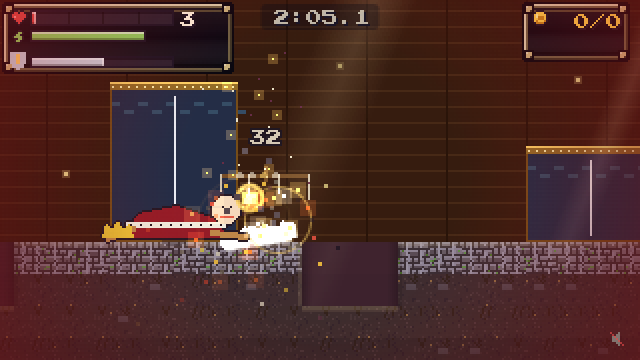
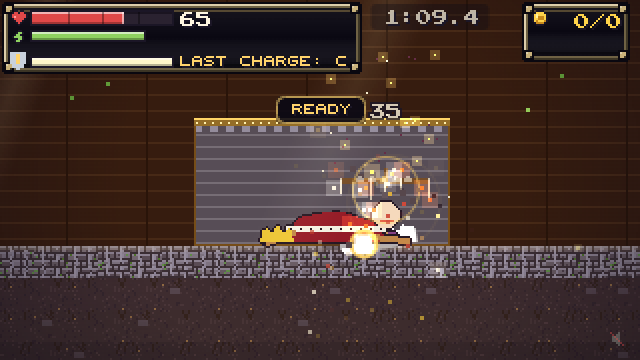
puppeteer3: the bot takes the hard way (up the batten, cut his line) so boss-navigation stands on the gallery again; retuned for it - open 3.0 s, jolt 1.2 s / 12 s, the Brute walks at 58 and hits 32/34/35; human bot 14/18 (78%), median win 113 s; new captures; PUPPETEER3 report

diff --git a/src/puppeteer.js b/src/puppeteer.js
@@ -31,8 +31,8 @@
 export const PUP = {
   hp: 720, w: 16, h: 40, markH: 50,
   ward: 0.05, openMul: 1.0, joltMul: 1.0,
-  downOpenT: 3.4,                      // BOTH PUPPETS DOWN: he is on the boards this long
-  joltT: 1.6, joltCd: 8.0,             // THE HARD WAY: his line struck from the gallery
+  downOpenT: 3.0,                      // BOTH PUPPETS DOWN: he is on the boards this long
+  joltT: 1.2, joltCd: 12.0,             // THE HARD WAY: his line struck from the gallery
   hangLow: 56,                         // one puppet down: his bar sinks this far below the gallery (still out of reach from the boards)
   descendT: 0.7, haulT: 1.2, riseT: 0.8,
   sceneT: 1.6,
@@ -41,7 +41,7 @@ export const PUP = {
   flySpeed: 170,
   harl: { hp: 40, speed: 130, jabTell: 0.36, jabNext: 0.24, jabT: 0.1, jabs: 3, jabReach: 26, jab: 10, kickTell: 0.5, kickT: 0.2, kickReach: 34, kick: 12,
     rest: 0.35, still: 0.7, dart: 2.2 },
-  brute: { hp: 110, speed: 38, chopTell: 1.0, chopReach: 40, chop: 28, slamTell: 1.15, slamReach: 70, slamTop: 12, slam: 30, grabTell: 1.0, grabReach: 30, grab: 32,
+  brute: { hp: 110, speed: 58, chopTell: 1.0, chopReach: 40, chop: 32, slamTell: 1.15, slamReach: 70, slamTop: 12, slam: 34, grabTell: 1.0, grabReach: 30, grab: 35,
     recover: 1.2, range: 44, scale: 1.5 },
   master: { hp: 150, swatTell: 0.9, swatReach: 58, swatTop: 64, swat: 24, stompTell: 1.1, stompHalf: 24, stomp: 30, reachTell: 1.0, reachT: 0.45, reachSpan: 200, reach: 22,
     recover: 1.6, speed: 34, lowerT: 1.6 },
@@ -250,7 +250,7 @@ function puppetStep(p, e, show, dt, c, ev, hero, mayStrike) {
       p.slamY = onFlat ? hf : null;
       if (opts.length) { const k = opts[(p.blows = (p.blows || 0) + 1) % opts.length]; show.turn = e.phase >= 2 ? show.turn : p;
         startTell(p, k + 'Tell', PUP.brute[k + 'Tell']); ev.push({ t: k + 'Tell', p }); c.say('!!', '#ff6b6b'); c.sound(k + 'Tell'); return; } }
-    if ((same || onFlat) && adx > PUP.brute.range - 12) { p.hopT = (p.hopT || 0) + dt; if (p.hopT % 0.5 < 0.3) { p.vx = Math.sign(dx) * PUP.brute.speed; p.x = Math.max(A.x0 + 14, Math.min(A.x1 - 14, p.x + p.vx * dt)); } }
+    if ((same || onFlat) && adx > PUP.brute.range - 12) { p.hopT = (p.hopT || 0) + dt; { p.vx = Math.sign(dx) * PUP.brute.speed; p.x = Math.max(A.x0 + 14, Math.min(A.x1 - 14, p.x + p.vx * dt)); } }
     return; }
   if (big) {
     if (mayStrike && show.gap <= 0) { const M = PUP.master;
@@ -388,7 +388,7 @@ export function buildPuppetStage({ painter, T, TS }) {
 /* ---------- THE BOT'S READING (src/lab.js): A HUMAN BOT ----------
    It sees a tell PLAN.react s after it began, misreads PLAN.missDodge of them, and goes for a string (rather than the body) PLAN.goString of the time.
    s = { P: { x, y, face, ground, atk }, e, show, reach, shield, onBatten, t, rng, mem } */
-export const PLAN = { react: 0.25, missDodge: 0.2, goString: 0.5 };
+export const PLAN = { react: 0.25, missDodge: 0.2, goString: 0.5, goLoft: 0.3 };
 export function puppetPlan(s) { const out = planOf(s), P = s.P, A = s.show.A;
   if (P.ground && P.y > A.floor + 8 && !out.down) { out.jump = true; if (out.gx == null) out.gx = P.x + (P.face || 1) * 30; }   /* in a broken-board pit, going somewhere: jump out */
   return out; }
@@ -420,6 +420,15 @@ function planOf(s) {
     if ((k === 'jab' || k === 'swat') && s.shield && (!tell || p.modeT < (k === 'jab' ? 0.2 : 0.35))) { out.block = true; out.atk = false; out.face = Math.sign(p.x - P.x) || 1; out.why = 'block the ' + k; return out; }
     if (tell && p.modeT < (k === 'jab' ? 0.25 : 0.45) && k !== 'slam' && k !== 'kick') { out.gx = clampX(p.x + (P.x < p.x ? -1 : 1) * (r + 22)); out.atk = false; out.why = 'back off the ' + k; return out; } }
   if (out.why === 'open' || out.why === 'under him') return out;
+  /* ---- 2b. THE HARD WAY, now and then (a roll per cycle): up the batten, strike the line he hangs from, and back down after the jolt ---- */
+  const wk = e.mode === 'whipLowTell' || (e.mode === 'whip' && e.whipKind === 'low') ? 'low' : e.mode === 'whipHighTell' || (e.mode === 'whip' && e.whipKind === 'high') ? 'high' : null;
+  if (wk && onGal && (e.mode === 'whip' || dodges(e))) { if (wk === 'low' && (e.mode === 'whip' || e.modeT < 0.2)) { out.jump = true; out.why = 'jump the whip'; return out; }
+    if (wk === 'high' && (e.mode === 'whip' || e.modeT < 0.3)) { out.down = true; out.why = 'duck the whip'; return out; } }
+  const goUp = show.joltCd <= 0 && ['work', 'hang1', 'whipLowTell', 'whipHighTell', 'whip'].includes(e.mode) && roll('loft|' + e.phase + '|' + show.n.drop + '|' + show.n.jolt, PLAN.goLoft);
+  if (goUp && onStage) return climb(out, P, show.batten, s);
+  if (goUp && onGal) { const l = hangLine(e, show), d = l.x0 - P.x; out.face = Math.sign(d) || 1; out.gx = Math.abs(d) > reach - 10 ? clampX(l.x0 - out.face * (reach - 12)) : null;
+    out.atk = Math.abs(d) < reach - 2; out.jump = out.atk && P.ground && l.y1 < P.y - 20; out.why = 'strike his line'; return out; }
+  if (onGal && !goUp) { out.drop = true; out.why = 'back down'; return out; }
   /* ---- 3. OFFENCE: the Brute in his recovery first (the big window), else the Harlequin when he is close, else the nearest one ---- */
   const brute = pups.find(p => p.t === 'marionette' || p.t === 'masterpiece'), harl = pups.find(p => p.t === 'harlequin');
   const recovering = brute && brute.mode === 'recover' && sees(brute);
@@ -439,6 +448,16 @@ function planOf(s) {
   /* THE HARLEQUIN PUNISHES STANDING STILL: shuffle */
   if (!out.gx && !out.atk && harl && near(harl, 50)) out.gx = clampX(P.x + (P.x < harl.x ? -14 : 14));
   return out;
+}
+
+/* the bot's way up: to the batten, strike the pin rail from it, ride it up, step off onto the gallery */
+function climb(out, P, bat, s) {
+  if (!bat) return out;
+  const onBat = s.onBatten, mid = bat.x + bat.w / 2;
+  if (bat.st === 'down' && !onBat) { out.gx = mid - 4; out.face = 1; out.why = 'to the batten'; return out; }
+  if (bat.st === 'down' && onBat) { out.gx = mid - 4; out.face = 1; out.atk = !(bat.t > 0); out.why = 'strike the pin rail'; return out; }
+  if (onBat && bat.st !== 'down') { out.gx = null; out.why = 'ride'; if (bat.st === 'up') { out.gx = bat.x + bat.w + 24; out.why = 'step off'; } return out; }
+  out.gx = mid + 40; out.why = 'wait for the batten'; return out;
 }
 
 /* ---------- THE FRAME each body shows ---------- */

diff --git a/work/claude/lane-done/claude-puppeteer.md b/work/claude/lane-done/claude-puppeteer.md
@@ -408,3 +408,194 @@ beside a grey decoy.
    punishment.
 5. **The spotlight** blinds the strings' glow. The alternative is darkening the view; the glow loss is the mechanical sting. Recommend the
    glow loss.
+
+---
+
+# PUPPETEER3 (2026-09-30, after Daniel played PUPPETEER2)
+
+Daniel: "Still really easy, and the enemies are just health sponges. How do I actually attack the boss? Cutting strings doesn't seem to do
+anything. Why not make one puppet have fast, weak attacks and the other slow and heavy, and balance the fight around that?"
+
+That was a core-loop failure, so this round rebuilds the fight around **his duo**. Readability came first, difficulty second. His own health is
+unchanged (720 base, 648 at normal). The code is still `src/puppeteer.js` (the fight, rewritten), `src/puppeteer-hands.js` (rewritten) and
+`src/redraw/puppeteer_art.js`.
+
+## The duo
+
+- **THE HARLEQUIN is fast and weak.**
+  - Short strings of **jabs**: 10 each, a 0.36 s windup, `!`. Block them or step back.
+  - A **low kick**: 12, a 0.5 s windup, `!!`. Jump it.
+  - He runs at 130 px/s, **darts round to your other side** every couple of seconds, and **jumps a hero who stands still** (0.7 s still is
+    enough).
+  - Fragile: 40 health, and **one string: one cut drops him**.
+- **THE BRUTE is slow and heavy.** He is the old soldier puppet, drawn at 1.5x.
+  - A **HEAVY CHOP** (1.0 s windup, 32), a **GROUND SLAM** (1.15 s windup, 34; a shock along the boards, jump it) and a **GRAB** (1.0 s windup, 35,
+    and it holds you). All three are `!!`: get out from under. After the game's damage scaling, two or three of them put you in trouble.
+  - He walks steadily at 58 px/s. At first he hopped at 38, and the bot simply outpaced him: two fights saw no chop and no grab at all.
+  - After every swing he stands **SPENT for 1.2 s**, shown by a green bar over him: that is the window to hit him or cut him.
+  - 110 health. **Two strings**:
+    - the **ARM** string: cut it and the chop and the grab are gone, and the arm hangs limp;
+    - the **BACK** string: cut it and the slam is gone.
+- **The fight is balanced around the pair.** The Harlequin may strike during the Brute's recovery, so punishing the Brute means handling the
+  Harlequin. **Kill order is a real choice:** a dropped Harlequin is down only 4 s, the Brute 6 s, and he comes down only when both are down at
+  once.
+- **The Acrobat is dropped**, along with the paired high/low blows, the decoys, the re-ties, the spotlight, the sandbag and the scenery. Fewer,
+  clearer threats. The scene changes stay: they only bring new flats, during his haul back up. The trapdoors now come only from the Brute's slam.
+
+## Damage is readable
+
+- **Puppets take normal damage.** A blow lands with a flash, a knock, the number and a sound, and takes their health. A health bar sits under
+  every standing puppet (green, then yellow, then red, in quarters).
+- **Strings are always drawn**, bright, with a knot at the limb, and **cut whenever a blow crosses them**. They attach 13-15 px up, where every
+  hero's blade reaches from the boards: the knight's reaches 17 and the pyromancer's staff 15. The masterpiece's high strings need a jump.
+- **A cut in the GOLD** (during a windup or a blow) also **cancels that blow** and staggers the puppet: a bonus, not the only moment a cut works.
+- **A CUT FEELS HUGE:**
+  - a double snap sound;
+  - an 80-120 ms hit-stop and a shake;
+  - the cut length whips away into the flies;
+  - the limb it held falls limp (the Brute's pose sags);
+  - the hint box says which limb and which attack is gone ("THE ARM GOES LIMP: NO MORE CHOP OR GRAB").
+- **A dropped puppet** lies in a heap with a ring counting out its down time.
+
+## How to hurt him is obvious from the first minute
+
+- He **hangs from his control bar** on a thick line from the grid.
+- **Each puppet you drop lowers his bar** by 56 px: you can see him sink, and he is still out of reach. The hint box says "ONE DOWN: HIS BAR
+  DROPS".
+- **With both down he is dragged to the boards.** You get a gold ring, a big **OPEN**, a timer bar and "HE'S DOWN - STRIKE HIM", for **3.0 s at
+  x1.0**: every blow counts in full.
+- The first thing said on waking is "DROP BOTH PUPPETS AND HE COMES DOWN". A blow on him while he hangs does x0.05, and says "OUT OF REACH: DROP
+  HIS PUPPETS FIRST".
+- **The hard way, always there:** the batten and pin rail are free from the start. From the gallery, **strike the line he hangs from** (a jump
+  reaches it; it glows while you are up there and it is ready). He is **jolted** down onto the gallery boards, open for 1.2 s, and it can't be
+  done again for 12 s.
+- **The PUPPETEER2 multipliers (x3.0 / x3.2) are gone.** The opening is x1.0 and the jolt x1.0. The fight is paced by how quickly you drop the duo,
+  and the open window's length is the lever.
+
+## The phases now change how the duo combines
+
+1. **One at a time.** They never start a windup on the same frame. The Harlequin may come in while the Brute is well into a windup or spent.
+2. **Together** ("TOGETHER NOW: HIS SLAM BREAKS THE BOARDS").
+   - Both strike freely.
+   - The Brute's **slam breaks the boards** where it lands: a trapdoor pit, three columns wide, for 4 s, told by the red crack in its windup.
+   - A hero on a flat or down in a pit is still reached: the slam shakes the boards he stands on.
+   - A hero on the gallery gets the Harlequin flown up to him, plus the Puppeteer's whip.
+3. **The masterpiece** takes the Brute's place: the wooden king, 150 health, four strings, swat `!` / stomp `!!` / reach `!!`. The Harlequin stays
+   at your heels. "DROP THE KING AND THE HARLEQUIN: HE FALLS."
+
+## The bot
+
+It is the same human bot, retuned for the duo:
+- 0.25 s reaction;
+- misreads 20% of tells;
+- goes for a string half the time and the body otherwise;
+- works the Brute's recovery first;
+- waits out his windups;
+- runs to where he lands when dragged down;
+- drops off a flat to reach a target below;
+- jumps out of pits;
+- **and takes the hard way now and then.** A 30% roll per cycle sends it up the batten: strike the pin rail, ride up, step off, chase his line
+  and jump-cut it, then drop back to the stage after the jolt. On the gallery it jumps his low whip and ducks the high one.
+
+The loft route came back because `boss-navigation` (the check from round 1) demands that the pilot stands on the fly gallery, and the first
+PUPPETEER3 bot never climbed. I fixed the bot, not the check. It also made the fight easier, which is why the jolt got shorter and the Brute got
+heavier (next section).
+
+## Checks (each run by name)
+
+- **Green:** `puppeteer` (rewritten; it now also plays one whole knight fight and requires a win with at least 10 damage taken), tells,
+  hint-shown, audio-assets, architecture, skins, dangling-paths, npc-removal, checkpoints, comments, boss-openings (updated: drop both, then he is
+  down and open for at least 3 s), boss-fight-end, boss-navigation (with the bot now climbing: see above), attack-tokens (alone).
+- **The new check is red on each of fifteen sabotages:**
+  - health does not drop a puppet;
+  - only a gold string can be cut;
+  - a gold cut does not cancel;
+  - a cut limb keeps its attack;
+  - the Harlequin needs two cuts;
+  - a dropped puppet is strung again at once;
+  - his bar does not sink;
+  - both down do not drag him down;
+  - the jolt has no cooldown;
+  - phase 1 starts the duo together;
+  - phase 2's slam breaks nothing;
+  - a flat is out of the Brute's reach;
+  - the Harlequin hits hard;
+  - the Brute recovers at once;
+  - a body blow takes no health.
+- **attack-tokens failed twice under load** with "only 3 red !! blows over both crowds". It sits on its own edge: the base gets exactly 4, and the threshold is fewer than 4. I checked that the marks table differs from the base only in the puppet rows. It passed alone.
+- **A local-server note:** another checkout was serving on this worktree's default port 6670 (without the puppet stage), and `tools/cdp.mjs` can't
+  tell, because it compares `lookpass.js`, which is identical everywhere. I ran every page check with `PORT=6689`.
+
+## Pilots (knight / warden / pyro x 3 seeds, normal health, one life, human bot)
+
+**BEFORE** (82c60e6, PUPPETEER2): 6/9 wins (67%), median win 130 s.
+
+| seed salt | knight | warden | pyro |
+|---|---|---|---|
+| 1 | win 81.5 s, took 16 | win 137.8 s, took 18 | win 145.0 s, took 79 |
+| 2 | death 138.3 s | death 211.4 s | win 105.5 s, took 50 |
+| 3 | win 100.8 s, took 52 | win 130.3 s, took 41 | death 144.8 s |
+
+**AFTER** (PUPPETEER3, final numbers, **6 seeds** because 3 seeds swing by a whole fight): **14/18 wins (78%), median win 113 s**. That is **just
+above the 60-75% band**, and the swing between runs is about ±10% (see below). Damage taken is real: up to 98 of 100 on a win. "Him at" is his
+health left when the hero died.
+
+| seed salt | knight | warden | pyro |
+|---|---|---|---|
+| 1 | death 82.6 s (him at 13%) | death 187.5 s (him at 31%) | win 102.0 s, took 8 |
+| 2 | win 96.1 s, took 28 | win 207.6 s, took 98 | win 106.1 s, took 8 |
+| 3 | win 62.9 s, took 27 | death 171.1 s (him at 4%) | win 127.9 s, took 39 |
+| 4 | win 74.1 s, took 51 | win 211.2 s, took 93 | win 128.1 s, took 37 |
+| 5 | win 85.0 s, took 38 | death 186.4 s (him at 3%) | win 118.4 s, took 54 |
+| 6 | win 100.7 s, took 33 | win 200.1 s, took 64 | win 112.9 s, took 27 |
+
+- **What hurt them:** the slam, the masterpiece's swat and stomp, and the Harlequin, in that order. The warden's fights run 170-210 s, over the
+  median band.
+- **The hero split is uneven:** knight 5/6, pyro 6/6, warden 3/6.
+- **Noise:** the same build gave 7/9, then 9/9, then 8/9 on different runs, so a single 9-fight sample can't tell 67% from 89%.
+- **How the tuning went:**
+  - 100% at first;
+  - 67% (6/9) before the bot could climb;
+  - 78-89% once it took the loft;
+  - then these changes, which brought it to 78% on 18 fights:
+    - the open window 3.4 → 3.0 s;
+    - the jolt 1.6 → 1.2 s, and its cooldown 8 → 12 s;
+    - the Brute's blows 28/30/32 → 32/34/35;
+    - the Brute walks at 58 instead of hopping at 38.
+- **Not the levers:** health, and the Brute's 1.2 s spent window (the check holds it at 1.2 s or more: it is his punish window).
+
+## Captures
+
+`node tools/puppeteer-shots.mjs` (the human-bot fight, one still per beat) saved to `work/claude/puppeteer/`:
+- `1-a-cut.png`: the Brute's arm cut, "THE ARM GOES LIMP: NO MORE CHOP OR GRAB", the flash and the number.
+- `2-the-brute-winds-up.png`: his slam band along the boards, `!!`, his line gold.
+- `3-the-harlequin-mid-combo.png`: phase 2, jabs in, `!`.
+- `4-the-brute-spent.png`: the green recovery bar.
+- `5-one-down-his-bar-sinks.png`.
+- `6-he-is-down-open.png`: dragged to the boards, the gold ring, OPEN, "HE'S DOWN - STRIKE HIM", the boss bar reading OPEN.
+- `7-phase2-together.png`.
+- `8-phase2-the-slam-breaks-the-boards.png`.
+- `9-phase3-the-masterpiece.png`.
+- `10-the-curtain-falls.png`.
+
+I checked the four the brief asked for by eye: the cut, both down with him OPEN, the Brute's windup, and the Harlequin mid-combo.
+
+## UNVERIFIED (PUPPETEER3)
+
+- **Nobody has played this build with hands.** In particular, untested: whether the cut reads as huge, whether his sinking bar reads, and whether
+  the jolt route is found.
+- **Only three heroes were piloted.** paladin, pirate, reaper and geomancer are untested.
+- **The Brute is the soldier's art at 1.5x**, with a sagging pose for a limp limb. There is no dedicated limp-arm frame.
+
+## QUESTIONS FOR DANIEL (PUPPETEER3; recommendation first; the recommended option is built)
+
+1. **Phase 3:** the masterpiece king replaces the Brute, not "the Brute rebuilt huge". Recommend **keeping the king for now**. The rebuilt Brute
+   would need new art: the same heavy three at 2x, with his limp-limb rules.
+2. **The warden is the hard hero here** (3/6 by the bot, 170-210 s fights: its line-shaped thrust drops puppets slowly), while the knight and pyro win 11/12. Recommend
+   **playing it as the warden first**. If it's too hard, give the Harlequin 35 health rather than easing the whole fight.
+3. **Should the Brute's chop be blockable?** It is `!!` now, because a shield made it trivial. Recommend **keeping `!!`**: the Brute is answered
+   by reading and dodging, and the Harlequin's jabs are the blockable ones.
+4. **The bot lands at 78%, three points over the band.** Recommend **playing it before tuning further**. If it is still easy, the next lever is the
+   open window, 3.0 → 2.6 s: `boss-openings` would need its floor of 3 s lowered, and that is your call.
+5. **Is the gallery-line jolt too hidden** as the "always there, hard" route? Recommend **keeping it hard**. A sign by the pin rail could say it
+   if playtests show nobody finds it.
